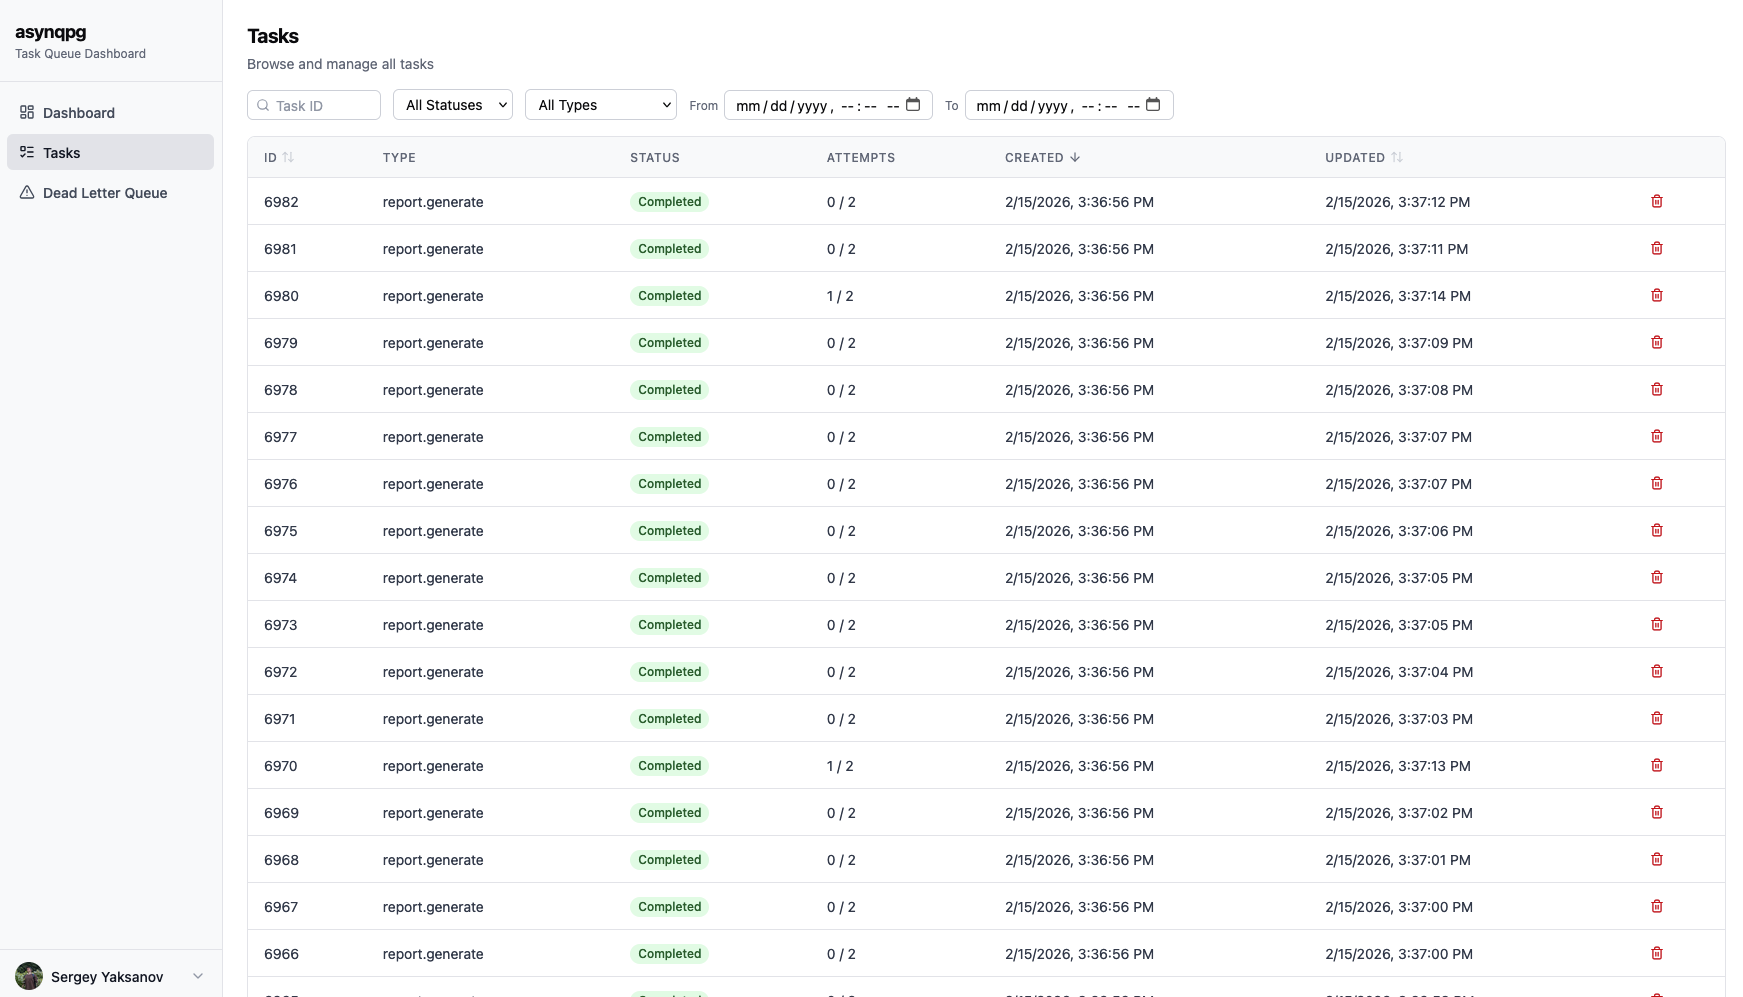
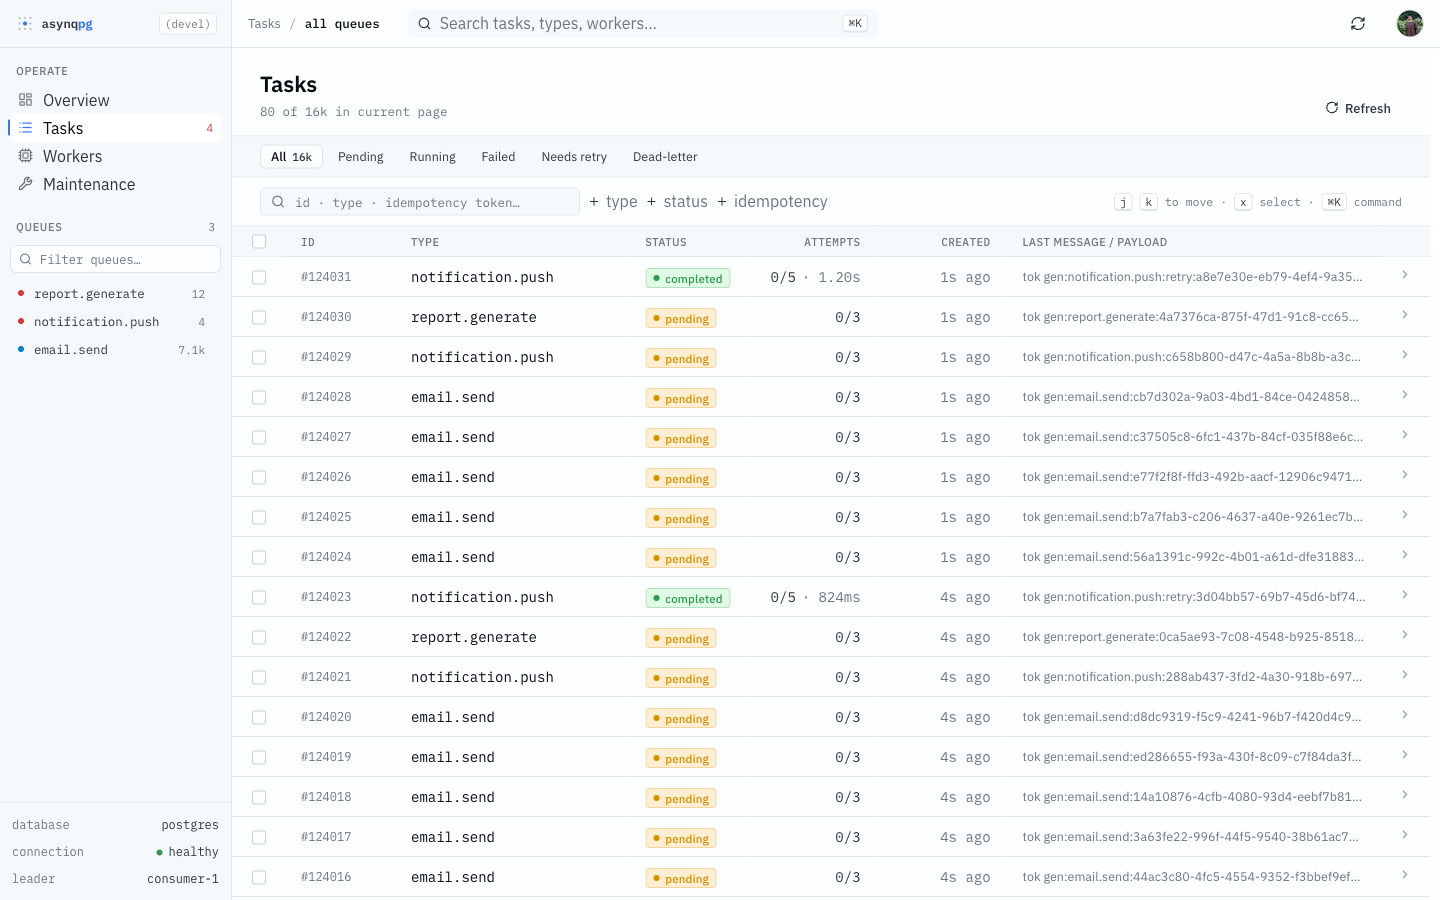
docs: refresh screenshots and Web UI section for redesigned dashboard
- Re-shoot main-dash, tasks-list, task-detail, dlq, github-oauth, and
  profile against the new design system.
- Add screenshots for the two new pages: workers (live processing +
  leader lease) and maintenance (status mix, recent failures,
  background-job descriptions).
- Restructure README "Web UI" section into Overview / Tasks / Workers /
  Maintenance / Authentication subsections describing the new
  functionality (saved views, idempotency-token filter, command palette,
  keyboard shortcuts, light/dark themes).

diff --git a/README.md b/README.md
@@ -35,7 +35,7 @@ Distributed task queue for Go, backed by PostgreSQL.
 - **Batch & transactional enqueue** – bulk insert with deduplication, enqueue within your DB transaction
 - **Per-type worker pools** – independent concurrency and timeout settings per task type
 - **Automatic maintenance** – leader election, stuck task rescue, old task cleanup
-- **Web dashboard** – Web UI with task inspection, filtering, retry/cancel/delete, and auth (Basic/OAuth)
+- **Web dashboard** – operator UI with overview KPIs, live task list, worker view, maintenance page, command palette (⌘K), keyboard navigation, light/dark themes, and Basic/OAuth auth
 - **OpenTelemetry** – built-in metrics and distributed tracing
 
 ## Installation
@@ -503,13 +503,35 @@ handler, err := ui.NewHandler(ui.HandlerOpts{
 http.Handle("/asynqpg/", handler)
 ```
 
-![Dashboard](docs/images/main-dash.png)
+The dashboard is a single-page React app embedded in the Go binary via `//go:embed`. It ships as four operator pages plus a profile/appearance page, with a command palette (⌘K), keyboard navigation (`j`/`k` to move, `x` to select), and light/dark themes that follow the system preference.
+
+### Overview
+
+Cluster snapshot at a glance: KPIs by status, per-task-type breakdown, current leader, and lease TTL. Auto-refreshes every 5 seconds.
+
+![Overview](docs/images/main-dash.png)
+
+### Tasks
+
+Live task list with saved views (All, Pending, Running, Failed, Needs retry, Dead-letter), filters by type / status / idempotency-token presence, full-text search by id / type / token, bulk retry and bulk delete, and pagination. Clicking a row opens an inline drawer with payload, attempt history, timing, and a `curl` snippet to reproduce the call.
 
 ![Tasks list](docs/images/tasks-list.png)
 
-![Task detail](docs/images/task-detail.png)
+![Task drawer](docs/images/task-detail.png)
 
-![Dead Letter Queue](docs/images/dlq.png)
+![Failed tasks](docs/images/dlq.png)
+
+### Workers
+
+Shows the currently elected leader (with lease remaining + auto-renew countdown) and a live snapshot of every task in `running` status across the cluster, including current attempt and elapsed time.
+
+![Workers](docs/images/workers.png)
+
+### Maintenance
+
+Status mix at a glance, the most recent failures, and a description of the leader-elected background jobs (Rescuer, Cleaner, Leader election) that run only on the elected leader.
+
+![Maintenance](docs/images/maintenance.png)
 
 ### Authentication
 
@@ -531,7 +553,7 @@ ui.HandlerOpts{
 }
 ```
 
-Implement the `ui.AuthProvider` interface to add any OAuth/SSO provider. See [`examples/demo/github_provider.go`](https://github.com/yakser/asynqpg/blob/master/examples/demo/github_provider.go) for a complete GitHub OAuth implementation.
+Implement the `ui.AuthProvider` interface to add any OAuth/SSO provider. Multiple providers can be configured in parallel — the login screen shows one button per provider. See [`examples/demo/github_provider.go`](https://github.com/yakser/asynqpg/blob/master/examples/demo/github_provider.go) for a complete GitHub OAuth implementation.
 
 ![GitHub OAuth login](docs/images/github-oauth.png)
 
